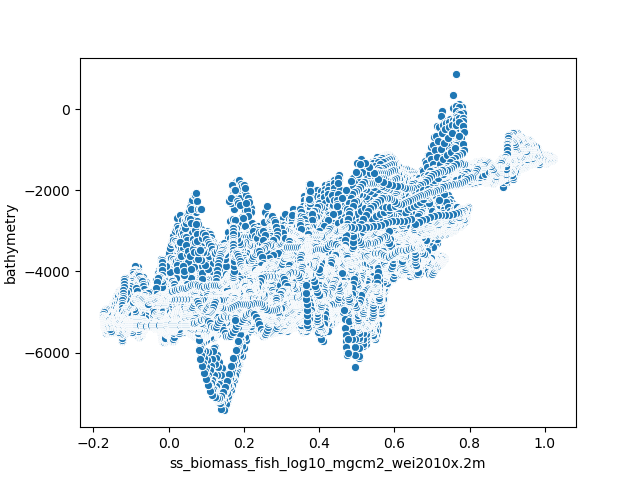
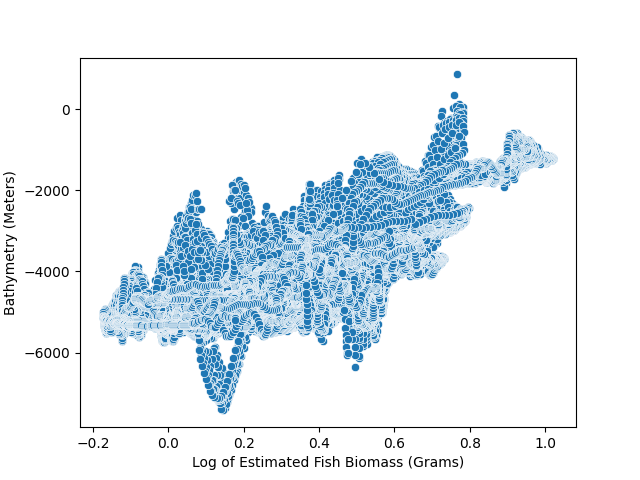
fixed figures axies

diff --git a/sections/data_methodology.tex b/sections/data_methodology.tex
@@ -32,7 +32,7 @@ This is applied to the data before training to ensure that land data is not used
 \par
 Classification requires discrete class labels to predict.
 To accommodate this requirement, the \ac{ETOPO} dataset was binned into discrete classes.
-This binning was performed on 150\-meter intervals.
+This binning was performed at 150-meter intervals.
 This partitioning scheme was chosen to compare to the results from a similar work~\cite{jena2012prediction}.
 
 \subsection{Training Data}
